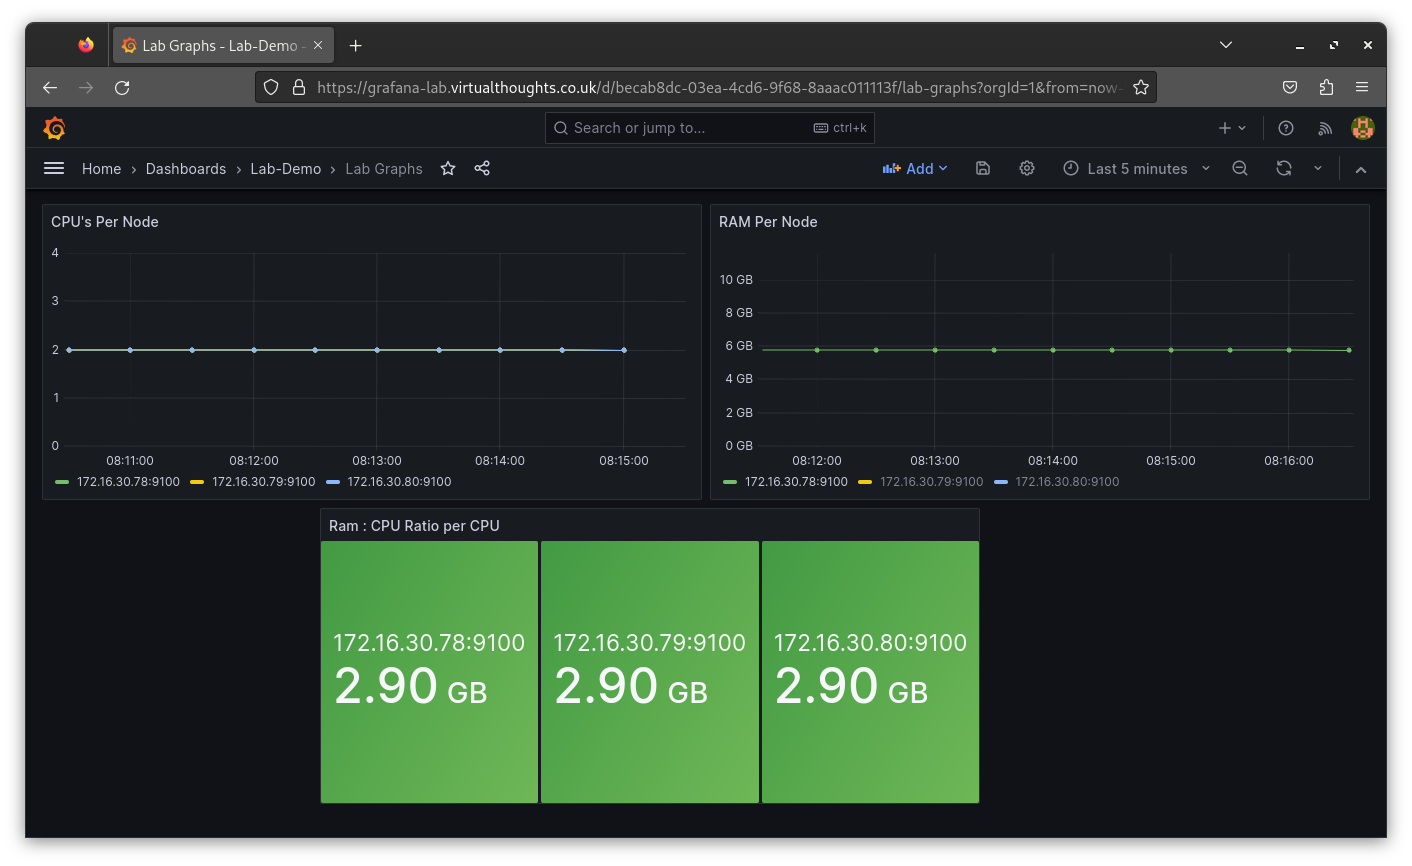
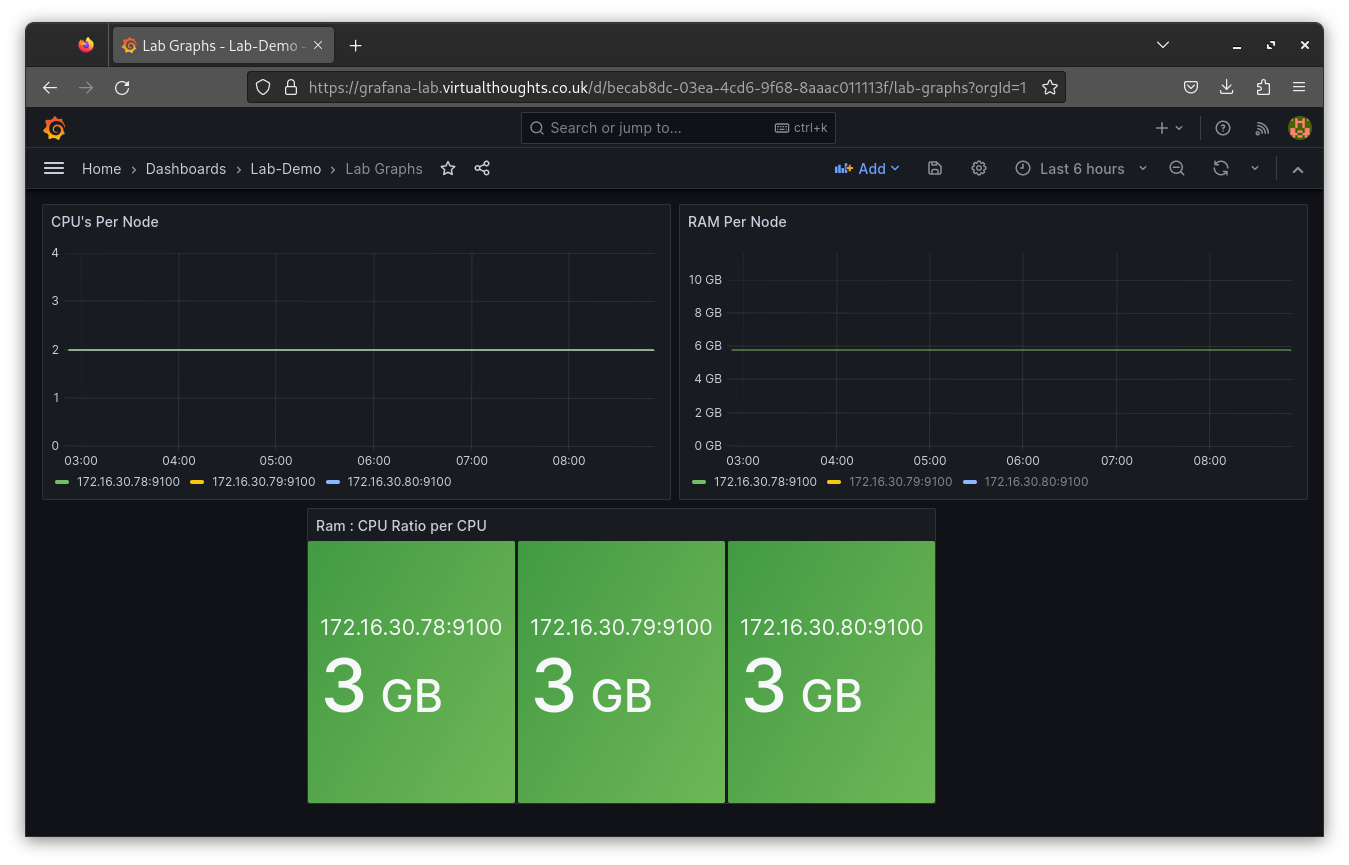
Update Grafana screenshot

diff --git a/site/prometheus/part-five/index.html b/site/prometheus/part-five/index.html
@@ -60,7 +60,7 @@
     </li>
     <li class="toctree-l2"><a class="reference internal" href="#ram-amount-in-gb-per-node">RAM amount in GB Per Node</a>
     </li>
-    <li class="toctree-l2"><a class="reference internal" href="#ram-amount-in-gb-per-cpu">RAM amount in GB per CPU</a>
+    <li class="toctree-l2"><a class="reference internal" href="#ratio-of-cpuram">Ratio of CPU:RAM</a>
     </li>
     </ul>
                   </li>
@@ -97,6 +97,8 @@ kind: PrometheusRule
 metadata:
   name: node-cpu-count-recording-rule
   namespace: prom-stack
+  labels:
+    release: prom-stack-lab
 spec:
   groups:
     - name: node-cpu-count-group
@@ -109,27 +111,31 @@ kind: PrometheusRule
 metadata:
   name: node-total-mem-gb
   namespace: prom-stack
+  labels:
+    release: prom-stack-lab
 spec:
   groups:
     - name: node-total-mem-gb
       rules:
         - record: lab_node:total_memory_gb
           expr: (node_memory_MemTotal_bytes{cluster="workload-cluster"} / 1024^3)</code></pre>
-<h2 id="ram-amount-in-gb-per-cpu">RAM amount in GB per CPU</h2>
+<h2 id="ratio-of-cpuram">Ratio of CPU:RAM</h2>
 <pre class="highlight"><code class="language-yaml">apiVersion: monitoring.coreos.com/v1
 kind: PrometheusRule
 metadata:
-  name: node-mem-per-cpu
+  name: node-mem-cpu-ratio
   namespace: prom-stack
+  labels:
+    release: prom-stack-lab
 spec:
   groups:
-    - name: node-mem-per-cpu
+    - name: node-mem-cpu-ratio
       rules:
-        - record: lab_node:mem_per_cpu_bytes
-          expr: node_memory_Percpu_bytes{cluster="workload-cluster"}</code></pre>
+        - record: lab_node:mem_cpu_ratio
+          expr: (node_memory_MemTotal_bytes{cluster="workload-cluster"} / 1024^3) / count without(cpu, mode) (node_cpu_seconds_total{mode="idle", cluster="workload-cluster"})</code></pre>
 <h1 id="visualising-with-grafana">Visualising with Grafana</h1>
 <p>Example of basic graphs leveraging the above recording rules:</p>
-<p><img alt="img_1.png" src="../../Images/grafana-basic.png" /></p>
+<p><img alt="img.png" src="../../Images/grafana-dashboard.png" /></p>
               
             </div>
           </div><footer>

diff --git a/site/index.html b/site/index.html
@@ -134,5 +134,5 @@
 
 <!--
 MkDocs version : 1.5.2
-Build Date UTC : 2023-09-17 12:11:30.824437+00:00
+Build Date UTC : 2023-09-19 07:28:51.049801+00:00
 -->
